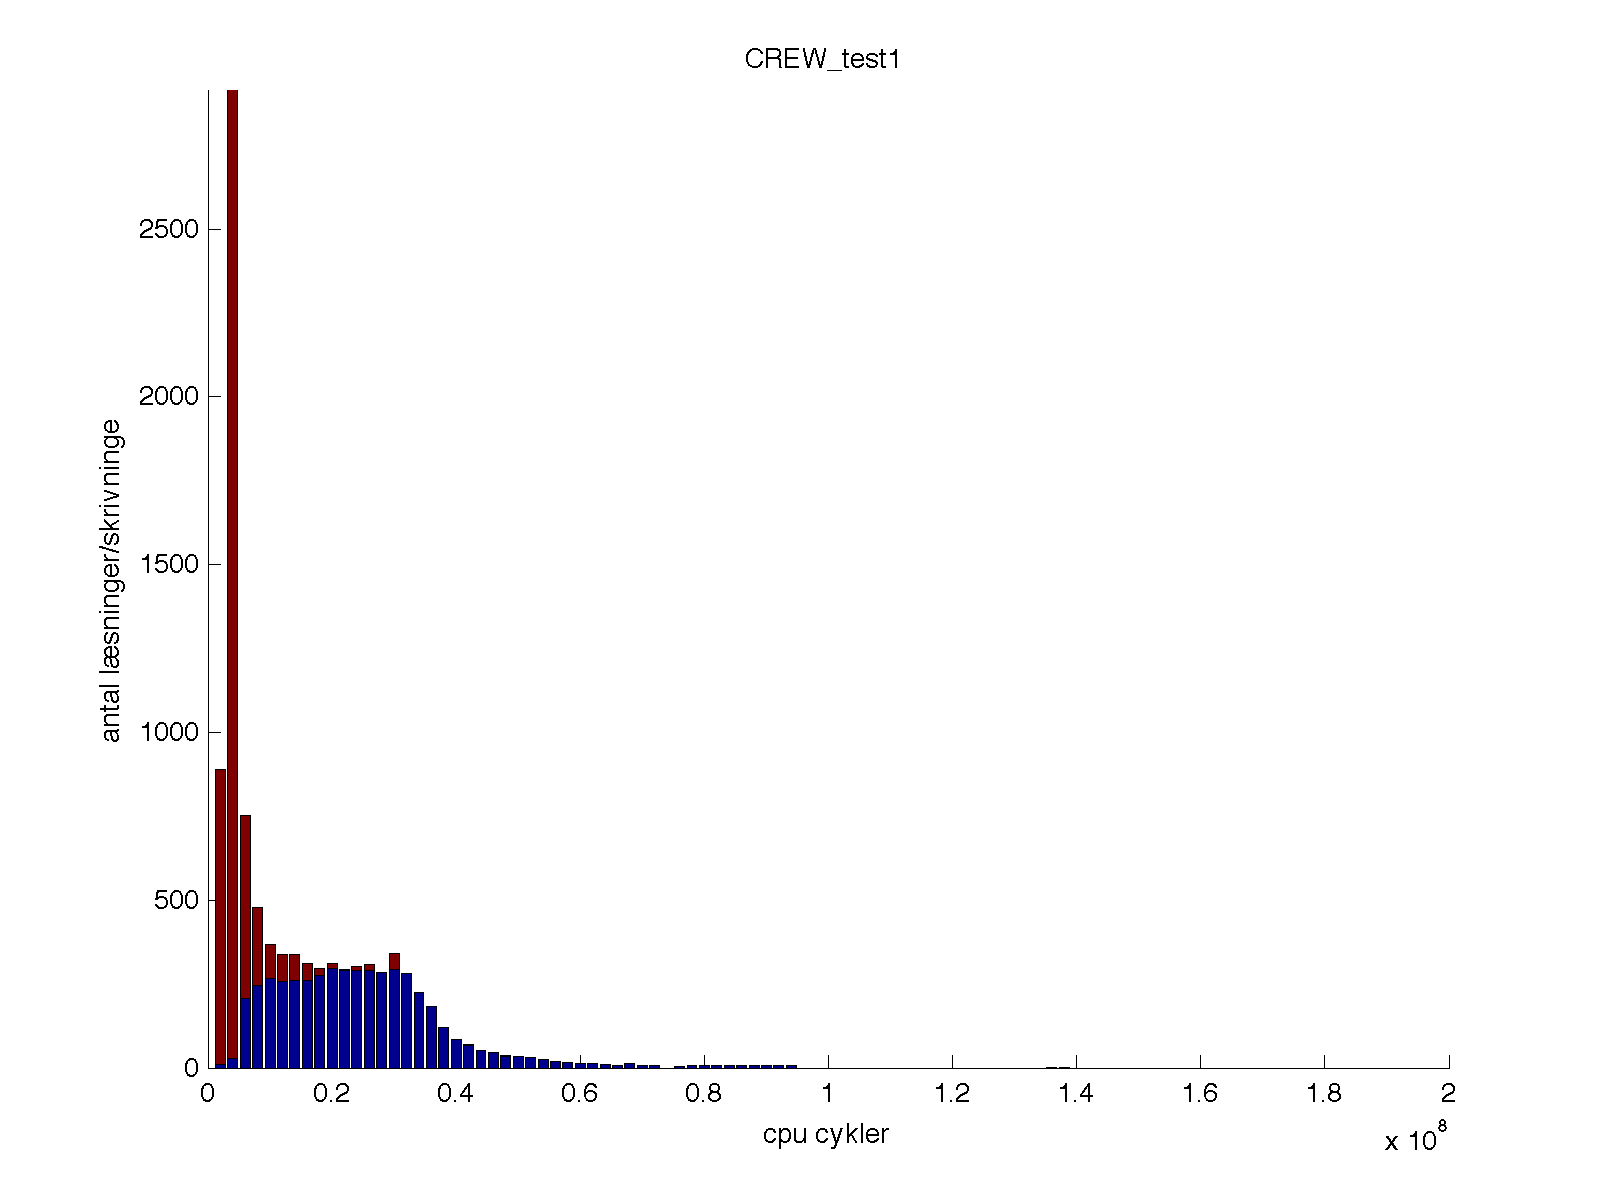
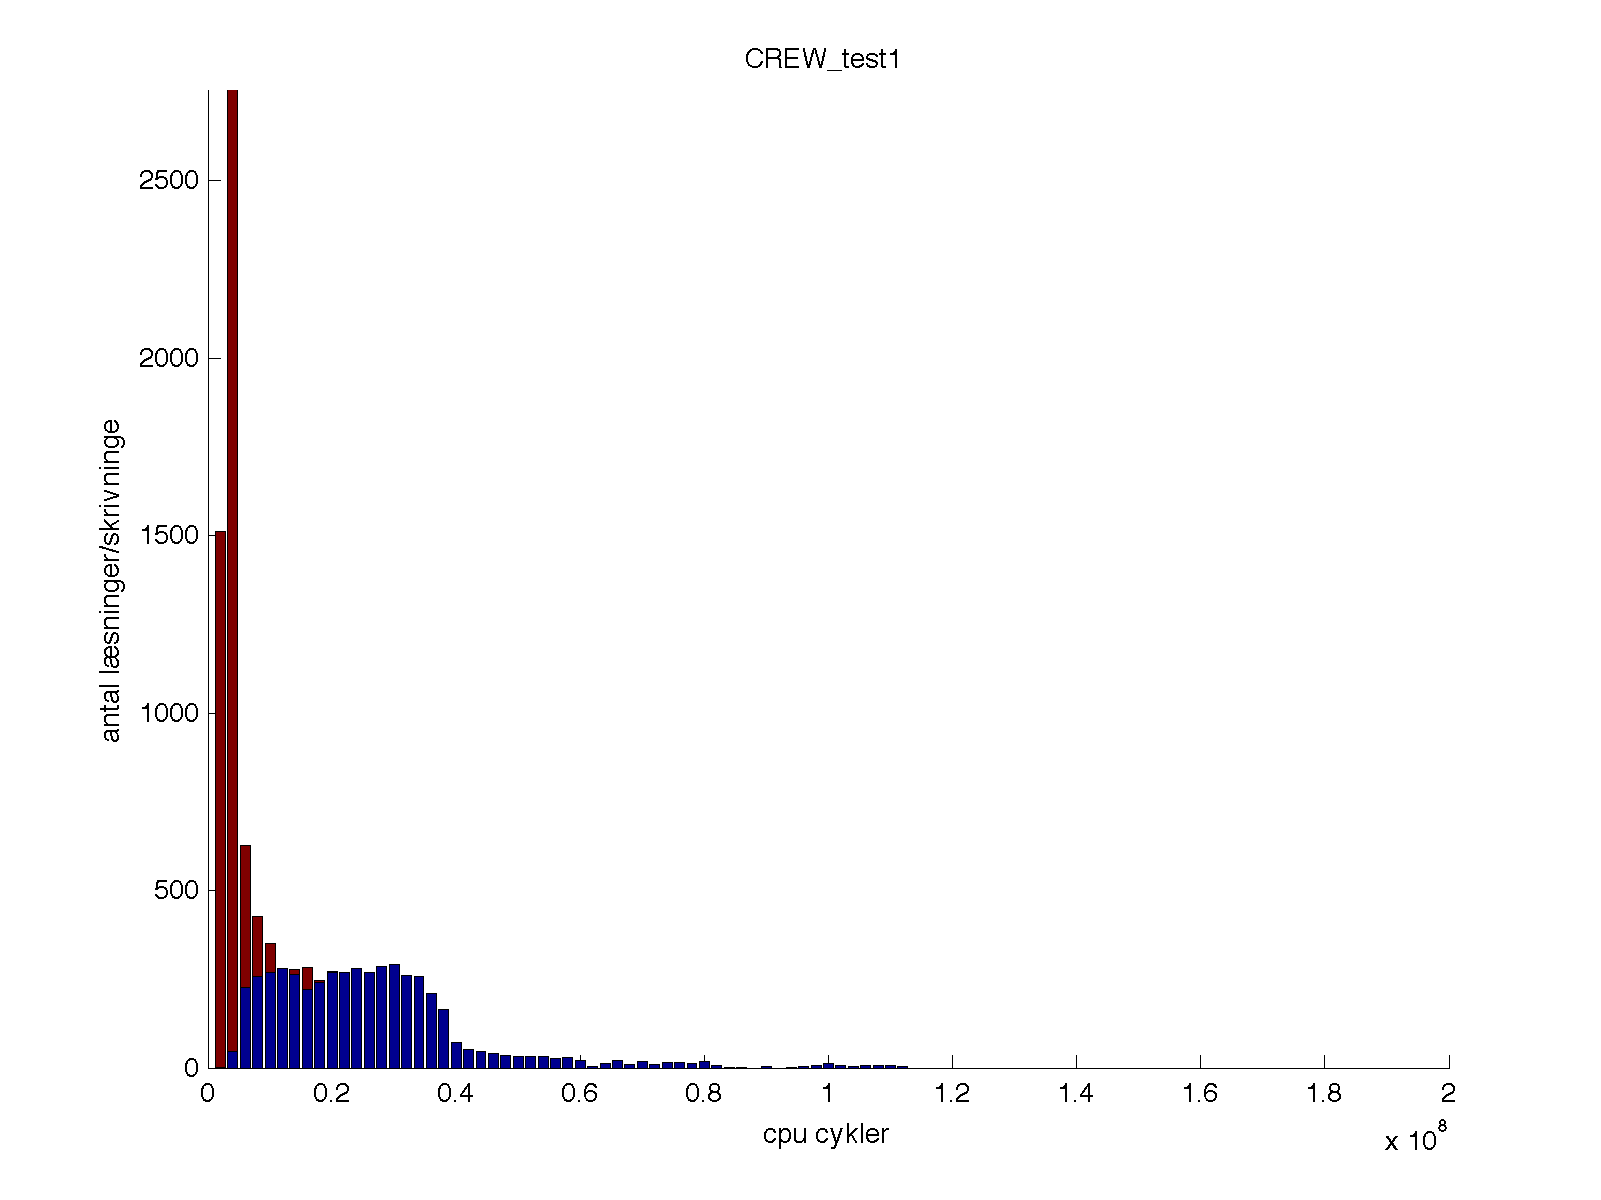
nu skulle test1 være rettet så den bruger mutex.

diff --git a/g3/CREW_test1.c b/g3/CREW_test1.c
@@ -25,7 +25,7 @@ void checkResults(char* msg, int val) {
 }
 
 // the read-write lock
-pthread_rwlock_t rlock, wlock;
+pthread_mutex_t rlock, wlock;
 int readers = 0;
 
 void *rdlockThread(void *arg)
@@ -38,27 +38,27 @@ void *rdlockThread(void *arg)
 //		printf("Reader %d getting read lock\n", me);		
 //		printf("%d prepere\n", me);
 		
-		rc = pthread_rwlock_rdlock(&rlock);
+		rc = pthread_mutex_lock(&rlock);
 		if (++readers == 1){
-			rc = pthread_rwlock_rdlock(&wlock);
+			rc = pthread_mutex_lock(&wlock);
 		}
 		
 //		printf("Readers increase -> %d\n", readers);
-		rc = pthread_rwlock_unlock(&rlock);
+		rc = pthread_mutex_unlock(&rlock);
 		
 		printf("%llu\t2\n", get_cycles());
 		// read for a while
 		usleep(50);
 				
-		rc = pthread_rwlock_rdlock(&rlock);
+		rc = pthread_mutex_lock(&rlock);
 		if (--readers == 0){
-			rc = pthread_rwlock_unlock(&wlock);
+			rc = pthread_mutex_unlock(&wlock);
 		}
 		
 //		printf("%d end reading\n", me);
 		
 //		printf("Readers decrease -> %d\n", readers);
-		rc = pthread_rwlock_unlock(&rlock);
+		rc = pthread_mutex_unlock(&rlock);
 				
 //		printf("Reader %d unlocked\n", me);
 	}
@@ -73,13 +73,13 @@ void *wrlockThread(void *arg)
 	
 	while (i-- > 0) {
 //		printf("Writer %d getting write lock\n", me);
-		rc = pthread_rwlock_wrlock(&wlock);
+		rc = pthread_mutex_lock(&wlock);
 		
 		printf("%llu\t1\n", get_cycles());
 		// write for a while
 		usleep(100);
 		
-		rc = pthread_rwlock_unlock(&wlock);
+		rc = pthread_mutex_unlock(&wlock);
 		//    printf("Writer %d unlocked\n", me);
 	}
 	return NULL;
@@ -98,9 +98,9 @@ int main(int argc, char **argv)
 	
 //	printf("Main initializing rwlock, will use %d readers and writers\n", 
 //		   num);
-	rc = pthread_rwlock_init(&rlock, NULL);
+	rc = pthread_mutex_init(&rlock, NULL);
 	checkResults("pthread_rwlock_init()\n", rc);
-	rc = pthread_rwlock_init(&wlock, NULL);
+	rc = pthread_mutex_init(&wlock, NULL);
 	checkResults("pthread_rwlock_init()\n", rc);
 	
 	reader = malloc(2*num*sizeof(pthread_t));
@@ -121,8 +121,8 @@ int main(int argc, char **argv)
 		checkResults("pthread_join\n", rc);
 	}
 	
-	rc = pthread_rwlock_destroy(&rlock);
-	rc = pthread_rwlock_destroy(&wlock);
+	rc = pthread_mutex_destroy(&rlock);
+	rc = pthread_mutex_destroy(&wlock);
 	checkResults("pthread_rwlock_destroy()\n", rc);
 	
 //e	printf("Main completed\n");
